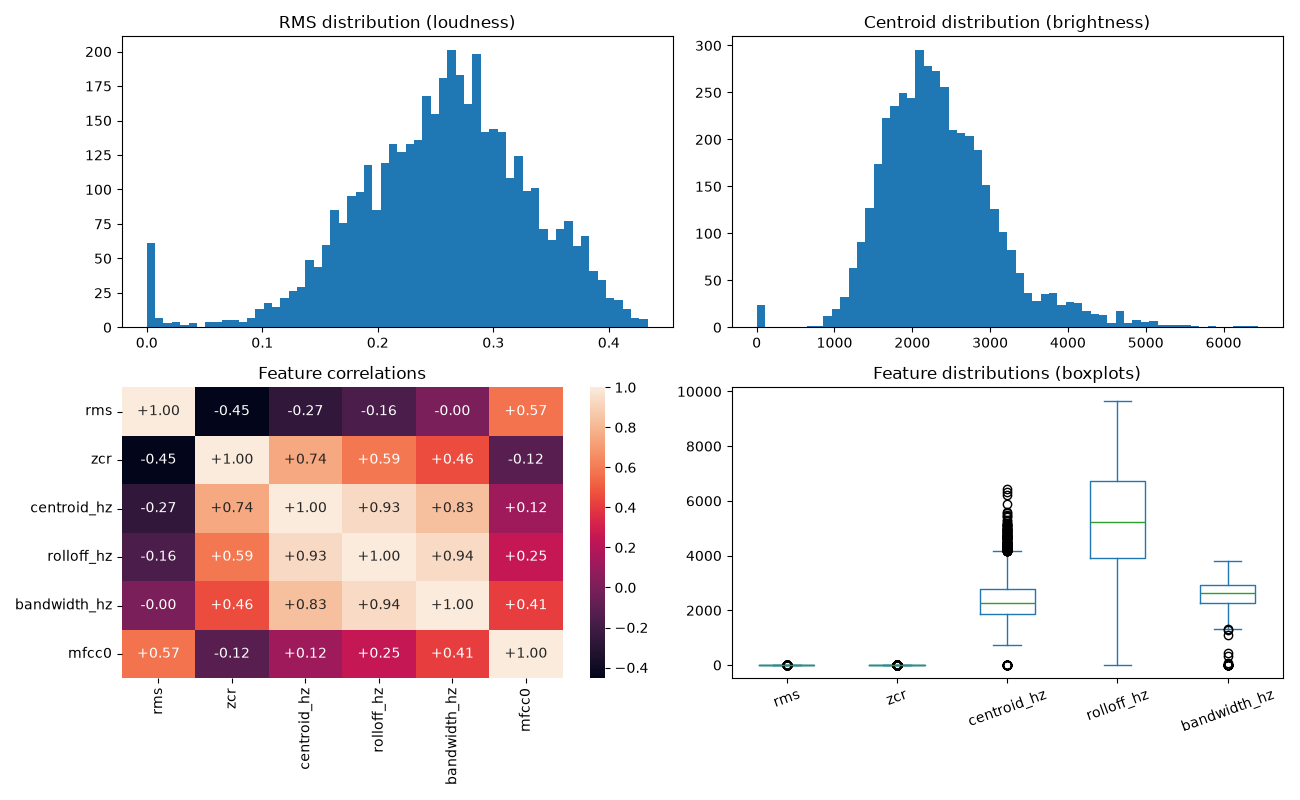
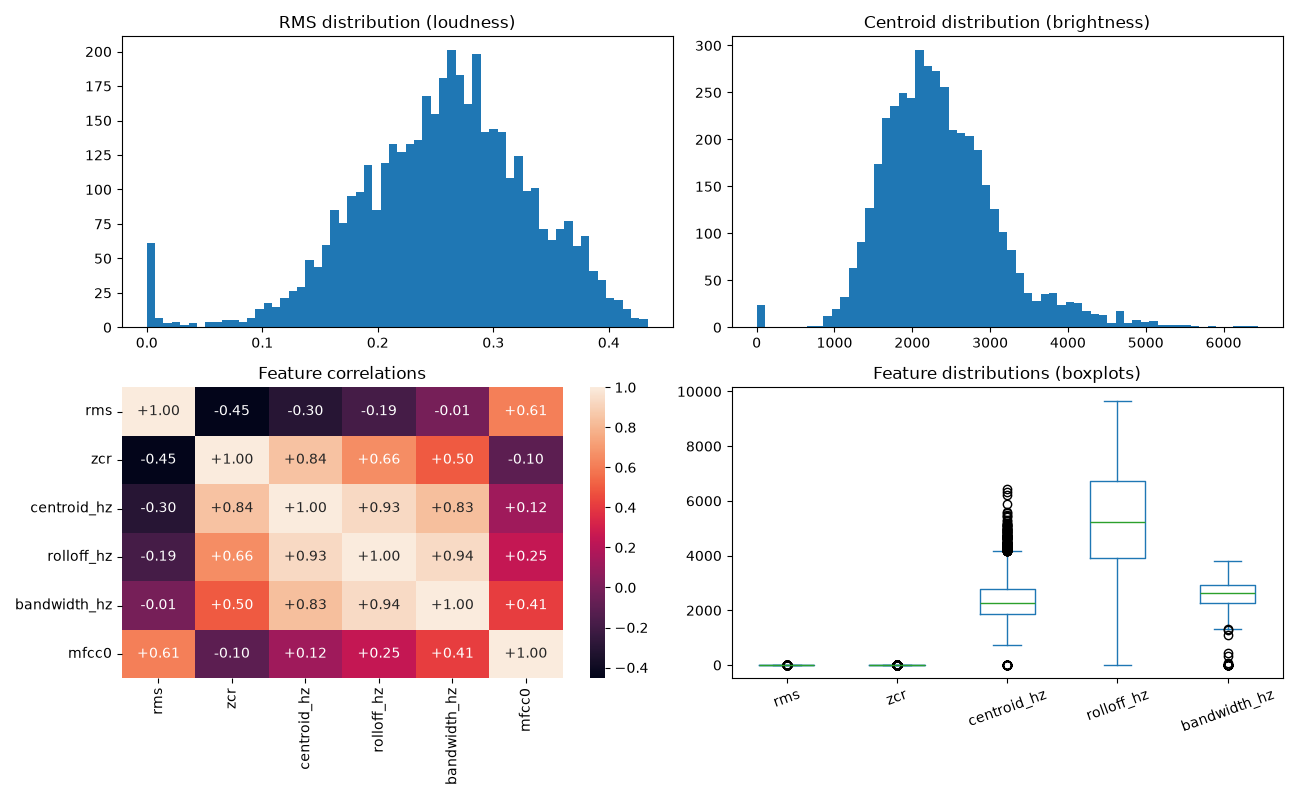
feat: update spectral feature calculations to disable centering

Changed region(s): [[0.1231, 0.5312, 0.2769, 0.6875]]

diff --git a/src/07_eda.py b/src/07_eda.py
@@ -16,10 +16,10 @@ def build_frame_table(y, sr: int) -> pd.DataFrame:
         "time_s": np.arange(n_frames) * hop / sr,
         "rms": librosa.feature.rms(y=y, frame_length=FRAME, hop_length=hop, center=False)[0, :n_frames],
         "zcr": librosa.feature.zero_crossing_rate(y, frame_length=FRAME, hop_length=hop, center=False, threshold=0.0)[0, :n_frames],
-        "centroid_hz": librosa.feature.spectral_centroid(y=y, sr=sr, n_fft=FRAME, hop_length=hop)[0, :n_frames],
-        "rolloff_hz": librosa.feature.spectral_rolloff(y=y, sr=sr, n_fft=FRAME, hop_length=hop)[0, :n_frames],
-        "bandwidth_hz": librosa.feature.spectral_bandwidth(y=y, sr=sr, n_fft=FRAME, hop_length=hop)[0, :n_frames],
-        "mfcc0": librosa.feature.mfcc(y=y, sr=sr, n_mfcc=13, n_fft=FRAME, hop_length=hop)[0, :n_frames],
+        "centroid_hz": librosa.feature.spectral_centroid(y=y, sr=sr, n_fft=FRAME, hop_length=hop, center=False)[0, :n_frames],
+        "rolloff_hz": librosa.feature.spectral_rolloff(y=y, sr=sr, n_fft=FRAME, hop_length=hop, center=False)[0, :n_frames],
+        "bandwidth_hz": librosa.feature.spectral_bandwidth(y=y, sr=sr, n_fft=FRAME, hop_length=hop, center=False)[0, :n_frames],
+        "mfcc0": librosa.feature.mfcc(y=y, sr=sr, n_mfcc=13, n_fft=FRAME, hop_length=hop, center=False)[0, :n_frames],
     }
 
     chroma = librosa.feature.chroma_cqt(y=y, sr=sr, hop_length=hop)
